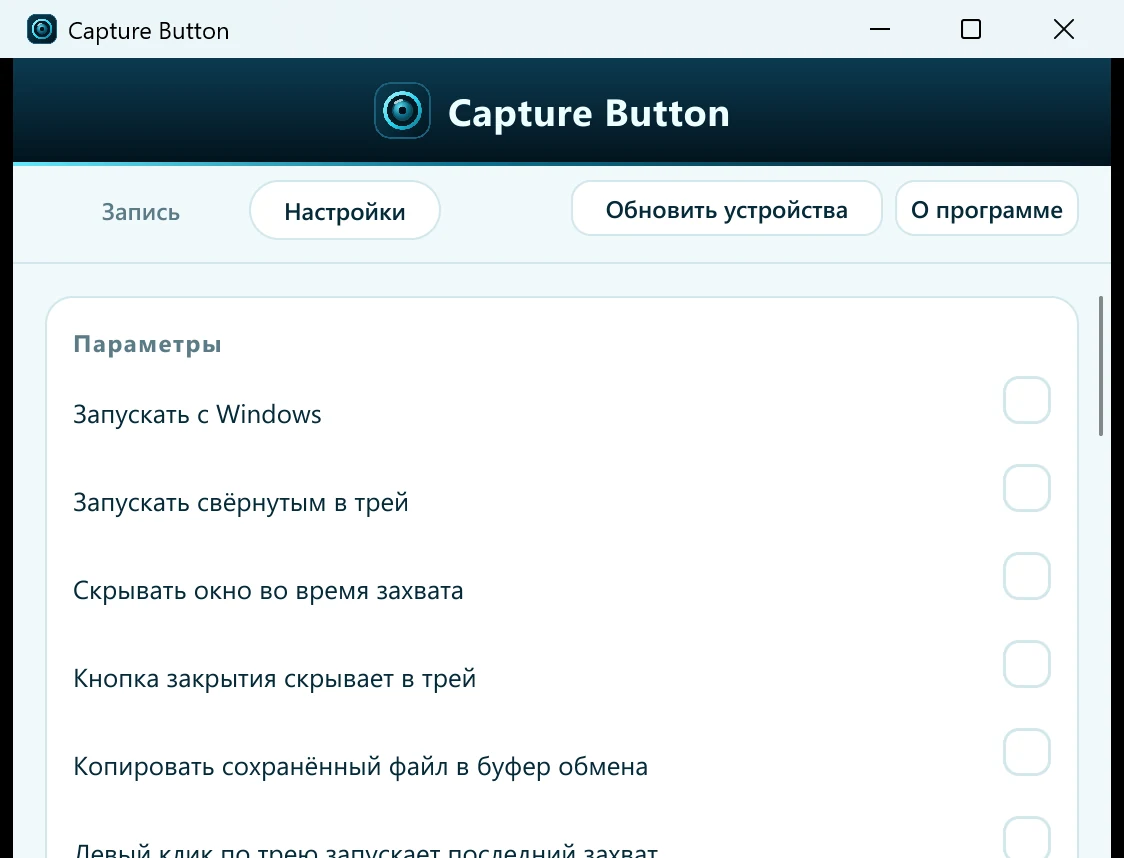
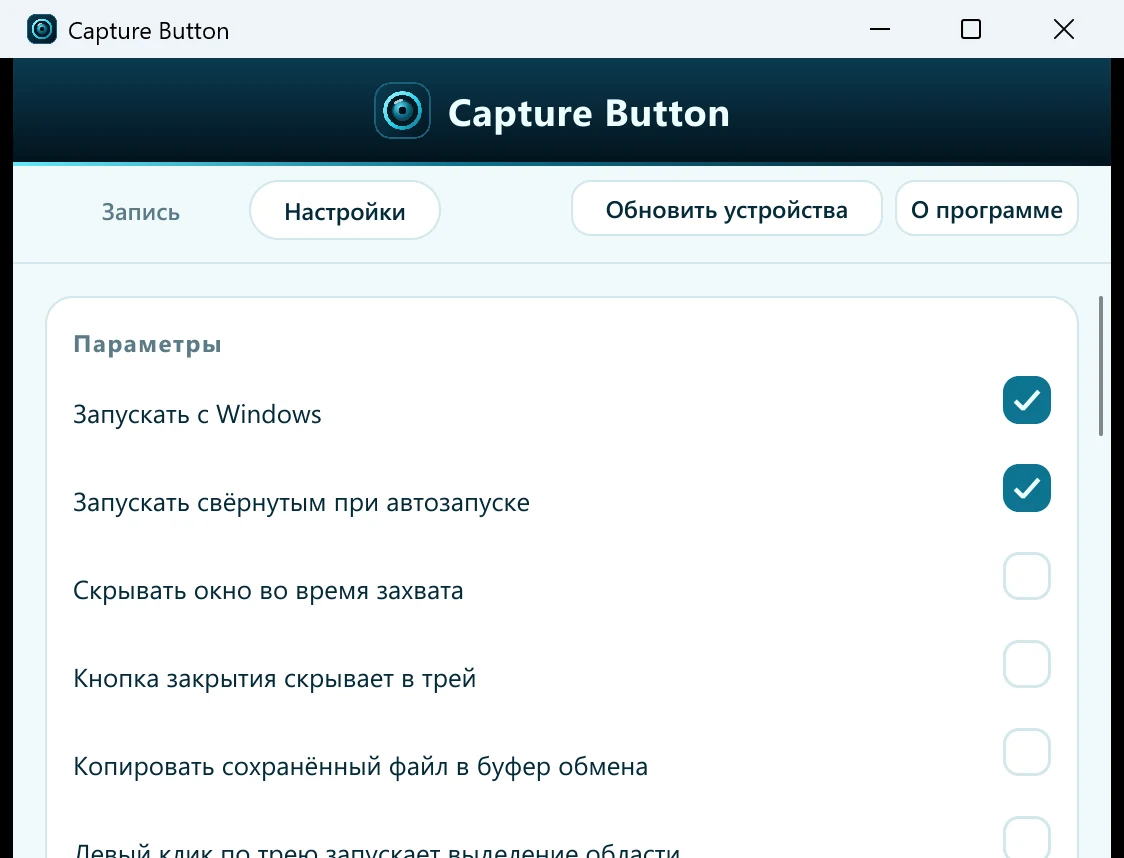
Say what each preference does and gate the dependent toggles (0.4.6)

Changed region(s): [[0.8719, 0.4242, 0.9342, 0.6061], [0.4048, 0.9697, 0.5916, 1.0], [0.3114, 0.5758, 0.4671, 0.6061]]

diff --git a/src/ui.rs b/src/ui.rs
@@ -678,19 +678,19 @@ fn sync_labels(ui: &MainWindow) {
     labels.set_open(tr("Open").into());
     labels.set_preferences(tr("Preferences").into());
     labels.set_start_with_windows(tr("Start with Windows").into());
-    labels.set_start_minimized(tr("Start minimized in the tray").into());
+    labels.set_start_minimized(tr("Start minimized with Windows").into());
     labels.set_hide_active(tr("Hide the window while capturing").into());
     labels.set_close_tray(tr("Close button hides to the tray").into());
     labels.set_clipboard(tr("Copy the saved file to the clipboard").into());
-    labels.set_tray_capture(tr("Tray left-click starts the last capture").into());
-    labels.set_highlight(tr("Outline the recorded region").into());
+    labels.set_tray_capture(tr("Tray left-click starts area selection").into());
+    labels.set_highlight(tr("Show a red frame around the area").into());
     labels.set_completion_sound(tr("Completion sound").into());
     labels.set_sounds(tr("Sounds").into());
     labels.set_volume(tr("Volume").into());
     labels.set_play_on_save(tr("Play when a recording is saved").into());
     labels.set_play_on_shot(tr("Play for screenshots and photos").into());
-    labels.set_no_signal(tr("Show a no-signal frame").into());
-    labels.set_show_card(tr("Show the webcam card").into());
+    labels.set_no_signal(tr("Keep recording when the signal is lost").into());
+    labels.set_show_card(tr("Show color bars instead of the frame").into());
     labels.set_tray_area(tr("Tray area").into());
     labels.set_tray_video(tr("Tray video").into());
     labels.set_tray_audio(tr("Tray audio").into());

diff --git a/tests/e2e.rs b/tests/e2e.rs
@@ -123,7 +123,8 @@ fn prepare_settings() {
     for (name, value) in [
         ("clipboard", 0),
         ("hide_active", 0),
-        ("start_minimized", 0),
+        ("autostart", 1),
+        ("start_minimized", 1),
         ("format", 0),
         ("mkv_height", 480),
         ("mkv_fps", 30),
